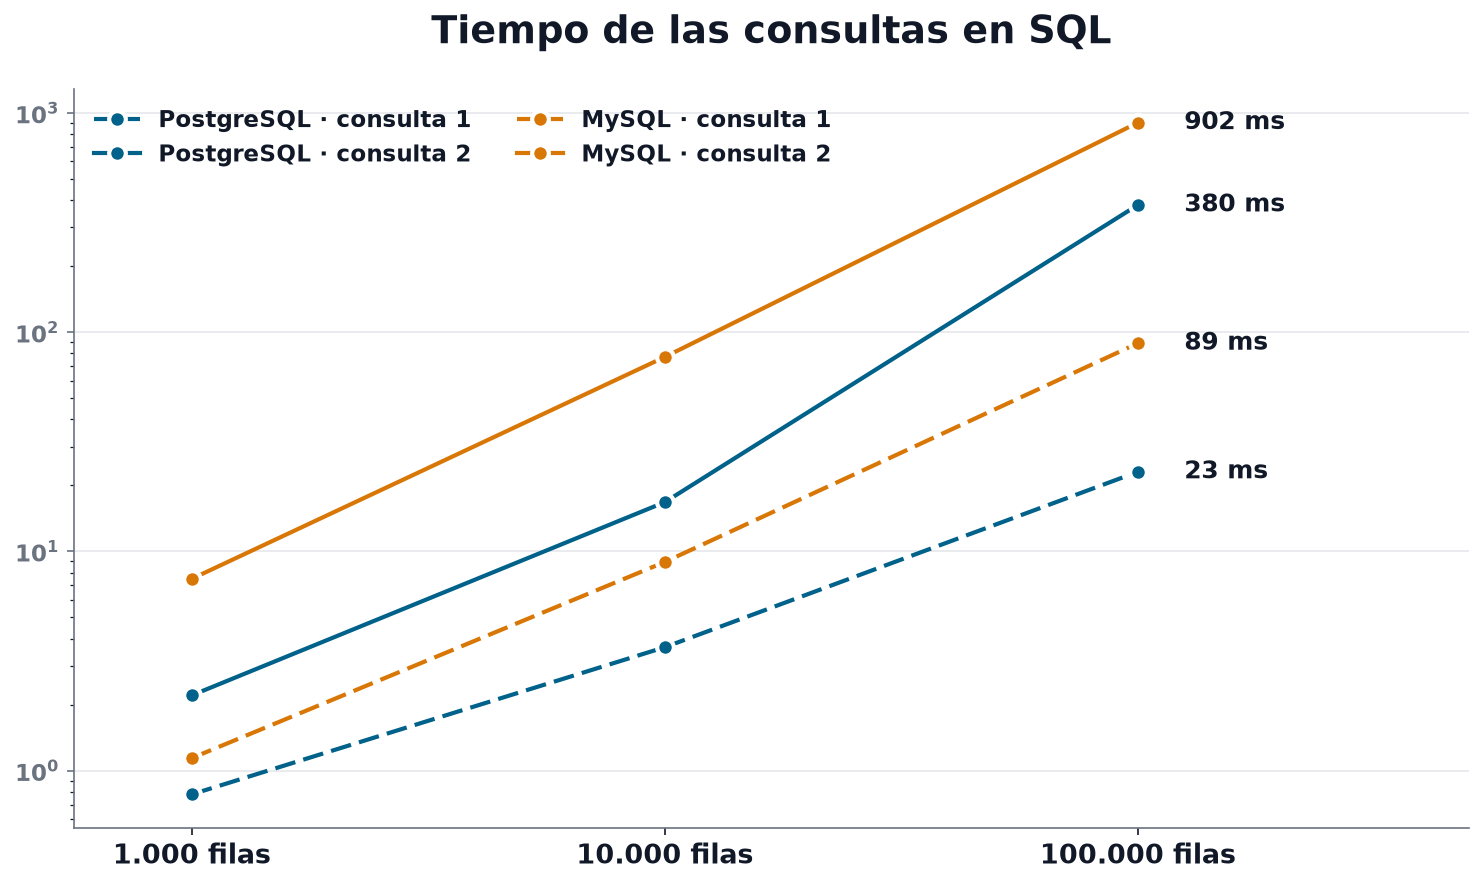
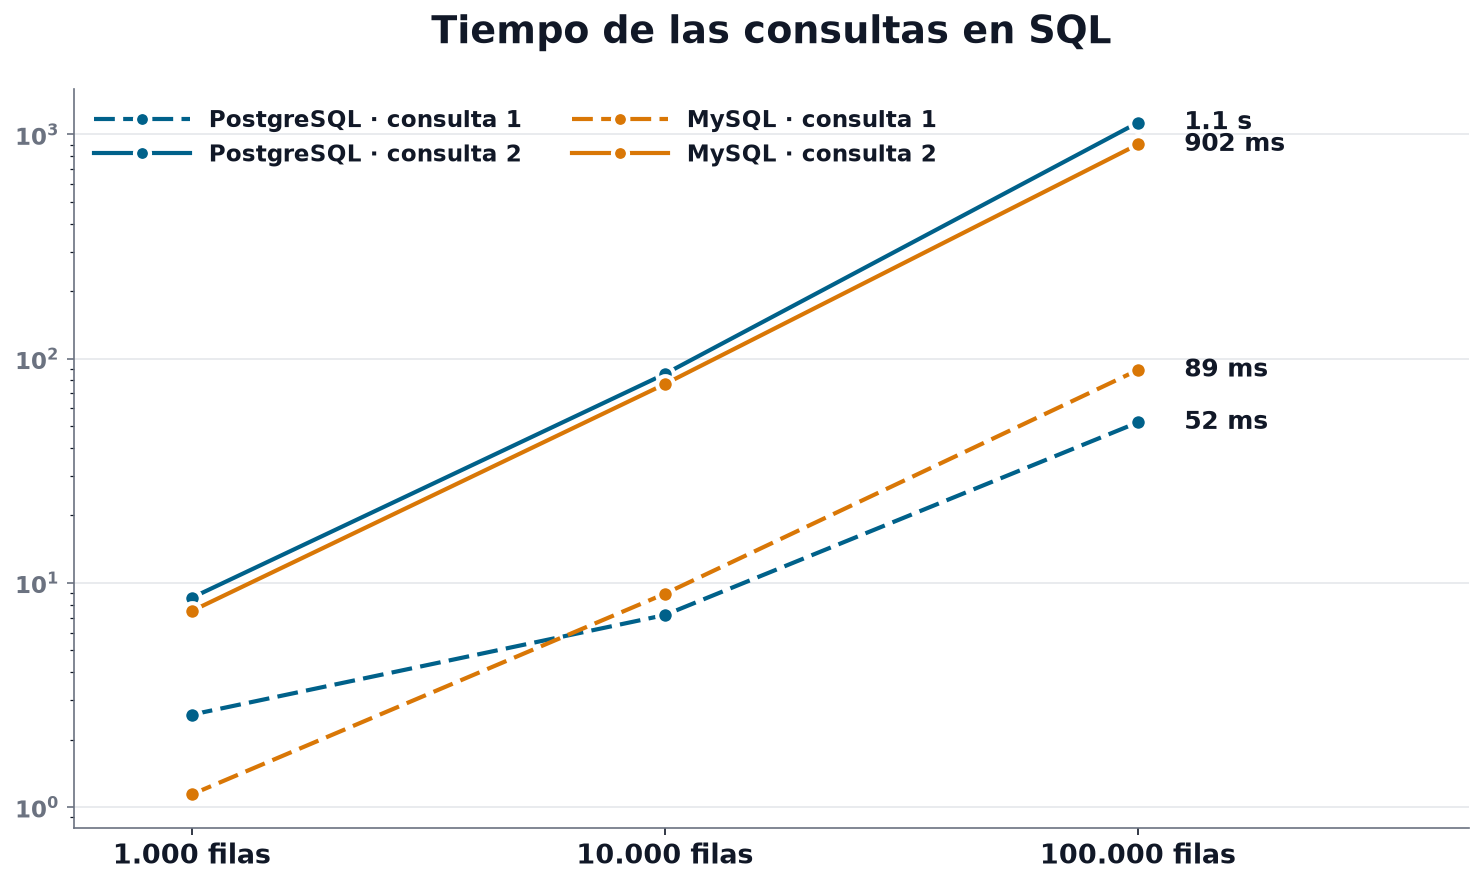
arreglando còdigos de python

diff --git a/postgreSQL/python/consultas.py b/postgreSQL/python/consultas.py
@@ -12,13 +12,14 @@ BASES_DE_DATOS = ["pokemon_1k", "pokemon_10k", "pokemon_100k"]
 CONEXION = "postgresql+psycopg2://postgres:1234@localhost:5432/{base}"
 
 
-def traer_tablas(url):
+def traer_tablas(url, tablas=TABLAS):
     with create_engine(url).connect() as conexion:
         return {tabla: pd.read_sql(f"SELECT * FROM {tabla}", conexion)
-                for tabla in TABLAS}
+                for tabla in tablas}
 
 
-def consulta_1(tablas):
+def consulta_1(url):
+    tablas = traer_tablas(url, ["pokemon", "especie", "entrenador"])
     con_especie = tablas["pokemon"].merge(tablas["especie"],
                                           on="numero_de_pokedex")
     con_entrenador = con_especie.merge(tablas["entrenador"],
@@ -28,7 +29,8 @@ def consulta_1(tablas):
                      "puntos_de_velocidad", "nombre_completo"]]
 
 
-def consulta_2(tablas):
+def consulta_2(url):
+    tablas = traer_tablas(url, ["pokemon", "entrenador", "tipo_de_objeto"])
     con_entrenador = tablas["pokemon"].merge(tablas["entrenador"],
                                              left_on="id_entrenador", right_on="id")
     con_objeto = con_entrenador.merge(tablas["tipo_de_objeto"],
@@ -50,8 +52,8 @@ medidas = []
 for nombre_base in BASES_DE_DATOS:
     url = CONEXION.format(base=nombre_base)
     tablas, tiempo_traida = cronometrar(traer_tablas, url)
-    resultado_1, tiempo_1 = cronometrar(consulta_1, tablas)
-    resultado_2, tiempo_2 = cronometrar(consulta_2, tablas)
+    resultado_1, tiempo_1 = cronometrar(consulta_1, url)
+    resultado_2, tiempo_2 = cronometrar(consulta_2, url)
 
     filas_traidas = sum(len(tabla) for tabla in tablas.values())
     medidas.append([nombre_base, "traer tablas", tiempo_traida, filas_traidas])

diff --git a/mysql/python/consultas.py b/mysql/python/consultas.py
@@ -12,13 +12,14 @@ BASES_DE_DATOS = ["pokemon_1k", "pokemon_10k", "pokemon_100k"]
 CONEXION = "mysql+pymysql://root:@localhost:3306/{base}"
 
 
-def traer_tablas(url):
+def traer_tablas(url, tablas=TABLAS):
     with create_engine(url).connect() as conexion:
         return {tabla: pd.read_sql(f"SELECT * FROM {tabla}", conexion)
-                for tabla in TABLAS}
+                for tabla in tablas}
 
 
-def consulta_1(tablas):
+def consulta_1(url):
+    tablas = traer_tablas(url, ["pokemon", "especie", "entrenador"])
     con_especie = tablas["pokemon"].merge(tablas["especie"],
                                           on="numero_de_pokedex")
     con_entrenador = con_especie.merge(tablas["entrenador"],
@@ -28,7 +29,8 @@ def consulta_1(tablas):
                      "puntos_de_velocidad", "nombre_completo"]]
 
 
-def consulta_2(tablas):
+def consulta_2(url):
+    tablas = traer_tablas(url, ["pokemon", "entrenador", "tipo_de_objeto"])
     con_entrenador = tablas["pokemon"].merge(tablas["entrenador"],
                                              left_on="id_entrenador", right_on="id")
     con_objeto = con_entrenador.merge(tablas["tipo_de_objeto"],
@@ -50,8 +52,8 @@ medidas = []
 for nombre_base in BASES_DE_DATOS:
     url = CONEXION.format(base=nombre_base)
     tablas, tiempo_traida = cronometrar(traer_tablas, url)
-    resultado_1, tiempo_1 = cronometrar(consulta_1, tablas)
-    resultado_2, tiempo_2 = cronometrar(consulta_2, tablas)
+    resultado_1, tiempo_1 = cronometrar(consulta_1, url)
+    resultado_2, tiempo_2 = cronometrar(consulta_2, url)
 
     filas_traidas = sum(len(tabla) for tabla in tablas.values())
     medidas.append([nombre_base, "traer tablas", tiempo_traida, filas_traidas])

diff --git a/postgreSQL/README.md b/postgreSQL/README.md
@@ -27,18 +27,21 @@ Cada archivo de carga crea las tablas y las carga, así que no hace falta correr
 ## Fase IV: consultas en Python
 
 
+Cada medición arranca en la llamada a la base: abrir la conexión, traer las
+tablas que la consulta necesita y resolverla con pandas.
+
 | Paso | 1k | 10k | 100k |
 |---|---|---|---|
-| Traer tablas | 102.735 ms | 157.031 ms | 1290.734 ms |
-| Consulta 1 | 5.231 ms | 8.992 ms | 97.092 ms |
-| Consulta 2 | 5.361 ms | 18.298 ms | 223.609 ms |
+| Traer tablas | 79.344 ms | 96.608 ms | 762.568 ms |
+| Consulta 1 | 44.226 ms | 121.534 ms | 777.474 ms |
+| Consulta 2 | 44.908 ms | 87.011 ms | 868.397 ms |
 
 | Consulta | Carga | PostgreSQL | Python |
 |---|---|---|---|
-| Consulta 1 | 1k | 2.584 ms | 5.231 ms |
-| Consulta 1 | 10k | 7.187 ms | 8.992 ms |
-| Consulta 1 | 100k | 51.956 ms | 97.092 ms |
-| Consulta 2 | 1k | 8.585 ms | 5.361 ms |
-| Consulta 2 | 10k | 85.430 ms | 18.298 ms |
-| Consulta 2 | 100k | 1128.943 ms | 223.609 ms |
+| Consulta 1 | 1k | 2.584 ms | 44.226 ms |
+| Consulta 1 | 10k | 7.187 ms | 121.534 ms |
+| Consulta 1 | 100k | 51.956 ms | 777.474 ms |
+| Consulta 2 | 1k | 8.585 ms | 44.908 ms |
+| Consulta 2 | 10k | 85.430 ms | 87.011 ms |
+| Consulta 2 | 100k | 1128.943 ms | 868.397 ms |
 

diff --git a/README.md b/README.md
@@ -22,18 +22,6 @@
 | III | Dos consultas en SQL sobre cada carga |
 | IV | Las mismas dos consultas resueltas con pandas |
 
-
-## Resultados
-
-![Consulta 1: PostgreSQL contra MySQL](docs/imgs/motores_consulta_1.png)
-
-![Consulta 2: PostgreSQL contra MySQL](docs/imgs/motores_consulta_2.png)
-
-PostgreSQL gana las seis medidas de consulta y carga entre 3,5 y 4,3 veces más rápido. El
-detalle de cada motor está en [postgreSQL/README.md](postgreSQL/README.md) y
-[mysql/README.md](mysql/README.md), y las gráficas salen de
-[docs/analisis_benchmark.ipynb](docs/analisis_benchmark.ipynb).
-
 ## Estructura
 
 ```
